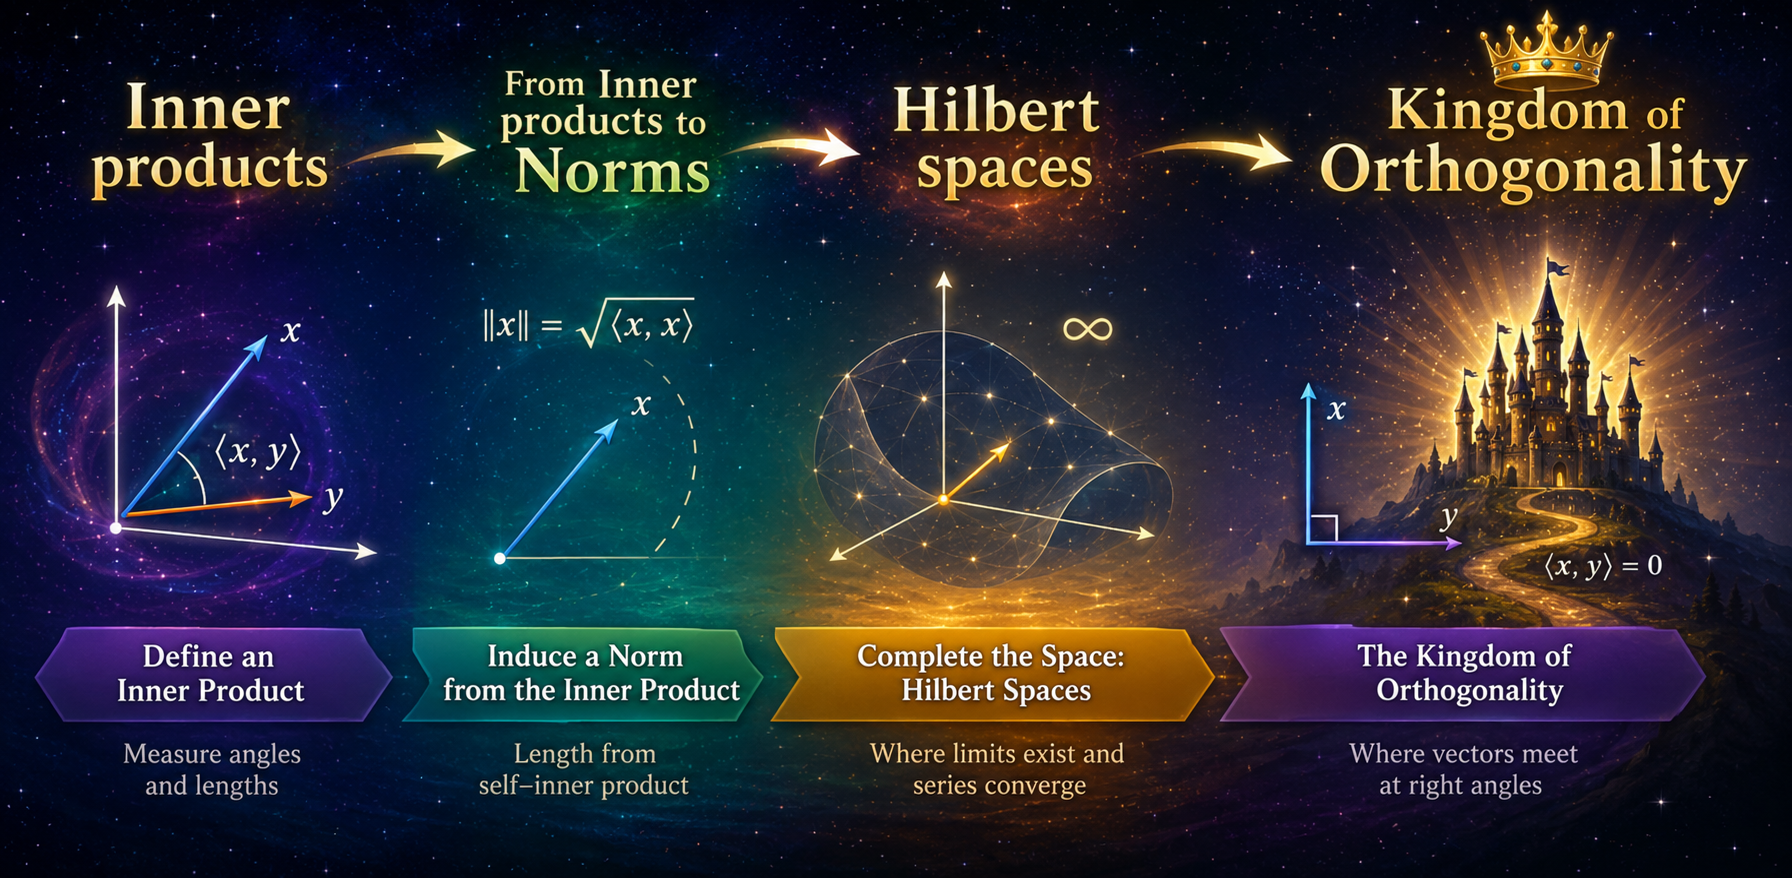
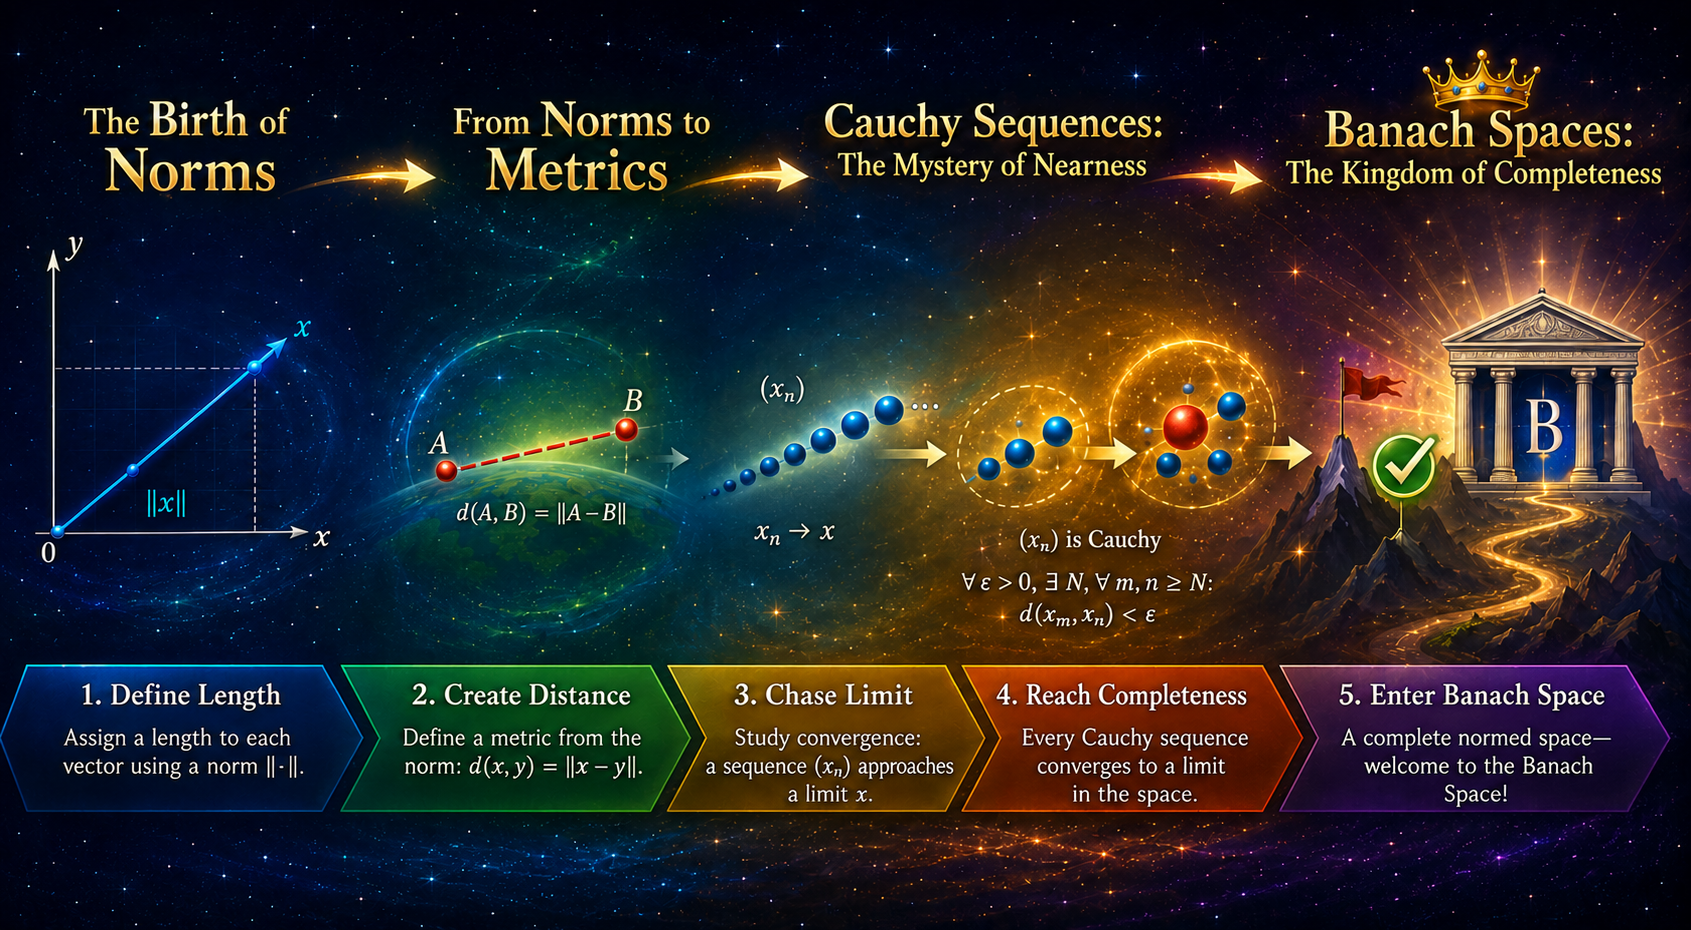
step 85 : finish part0 start part1

diff --git a/codes/main_bottomUp.py b/codes/main_bottomUp.py
@@ -2,7 +2,7 @@ from manim import *
 import numpy as np
 from math import *
 
-config.background_color = "#020416" #WHITE
+config.background_color =  "#020416" #WHITE  
 dark_red = "#9A0000"
 light_red = "#9A000045"
 dark_pink = "#9C1568"
@@ -2535,7 +2535,7 @@ class Part1_Scene(MovingCameraScene):
         self.wait(1)
 
         norm2_2d = MathTex(
-            r"\text{length }",r"= ",r"\sqrt{x^2 + y^2}",color=BLACK
+            r"\text{Vector length }",r" \text{is } ",r"\sqrt{x^2 + y^2}",color=BLACK
         ).move_to(axes.get_center()+1*DOWN)
         # draw vector in (0,0)
         vector = Arrow(
@@ -2707,9 +2707,12 @@ class Part1_Scene(MovingCameraScene):
         )
 
         # 2
-        text_2 = MathTex(r"\text{vector = }",r"\vec{0}=(0,0)\\",r"\text{length = }",r"0",color=dark_pink
-        ).scale(1.3).to_edge(LEFT).shift(RIGHT+UP)
-        text_2[2:].shift(1*LEFT)
+        text_2_part1 = MathTex(r"\text{Vector is }",r"\vec{0}",color=dark_pink
+        ).scale(1.3)
+        text_2_part2 = MathTex(r"\text{Vector length is }",r"0",color=dark_pink
+        ).scale(1.3)
+        text_2 = VGroup(text_2_part1, text_2_part2).arrange(DOWN,buff=0.5).to_edge(LEFT).shift(RIGHT+UP)
+        # text_2[2:].shift(1*LEFT)
         arrow_0_0_down = CurvedArrow(
             start_point=text_2.get_corner(UR)+0.2*DOWN+0.3*RIGHT,
             end_point=text_2.get_corner(DR)+0.2*UP+0.3*RIGHT,
@@ -2763,9 +2766,9 @@ class Part1_Scene(MovingCameraScene):
 
         # 3
 
-        text_3_part1 = MathTex(r"t \cdot ",r"\text{vector}\\",color=dark_pink
-        ).scale(1.3).to_edge(LEFT).shift(RIGHT+UP)
-        text_3_part2 = MathTex(r"t \cdot ",r"\text{length}",color=dark_pink
+        text_3_part1 = MathTex(r"t \cdot ",r"\text{Vector}",color=dark_pink
+        ).scale(1.3).to_edge(LEFT).shift(2*RIGHT+UP)
+        text_3_part2 = MathTex(r"t \cdot ",r"\text{Vector length}",color=dark_pink
         ).scale(1.3).to_edge(LEFT).shift(RIGHT+0.9*DOWN)
         self.play(
             Write(text_3_part1),
@@ -2876,7 +2879,7 @@ class Part1_Scene(MovingCameraScene):
             TransformMatchingTex(reordered, final)
         )
         final[1].set_color(light_orange)
-        length_text = MathTex(r"\text{length}",color=light_orange
+        length_text = MathTex(r"\text{Vector length}",color=light_orange
         ).next_to(final[0],RIGHT)
         self.play(
             ReplacementTransform(final[1],length_text)
@@ -2888,7 +2891,7 @@ class Part1_Scene(MovingCameraScene):
             angle=-PI/2,
             color=light_pink,
         )
-        text_3_part2_2 = MathTex(r"|t| \cdot ",r"\text{length}",color=dark_pink
+        text_3_part2_2 = MathTex(r"|t| \cdot ",r"\text{Vector length}",color=dark_pink
         ).scale(1.3).to_edge(LEFT).shift(RIGHT+0.6*DOWN)
         self.play(
             Create(arrow_0_0_up),
@@ -2899,6 +2902,7 @@ class Part1_Scene(MovingCameraScene):
         self.play(
             FadeOut(final[:2]),
             FadeOut(length_text),
+            FadeOut(norm2_2d),
             # FadeOut(note_text),
         )
 
@@ -2990,6 +2994,7 @@ class Part1_Scene(MovingCameraScene):
 
         self.play(
             Write(text_4),
+            # FadeOut(norm2_2d),
         )
         self.wait(1)
 
@@ -3121,7 +3126,7 @@ class Part1_Scene(MovingCameraScene):
         vector.set_color(BLACK)
         self.play(
             FadeOut(plane),
-            FadeOut(norm2_2d),
+            # FadeOut(norm2_2d),
             FadeOut(text_2),
             FadeOut(text_1),
             FadeOut(vector_rule3_3),
@@ -4840,20 +4845,20 @@ class Part1_Scene(MovingCameraScene):
             self.camera.frame.save_state()
 
 
-            rect_1 = Rectangle(width=3.2, height=6.8).move_to(img.get_left() + RIGHT * 1.5 +0.2*UP).round_corners(radius=0.3)
-            rect_2 = Rectangle(width=3, height=6.8).move_to(img.get_left() + RIGHT * 4.7 +0.2*UP).round_corners(radius=0.3)
-            rect_3 = Rectangle(width=3, height=6.8).move_to(img.get_left() + RIGHT * 8.1 +0.2*UP).round_corners(radius=0.3)
-            rect_4 = Rectangle(width=4.5, height=6.8).move_to(img.get_left() + RIGHT * 12.2 +0.2*UP).round_corners(radius=0.3)
-
             # rect_1 = Rectangle(width=3.2, height=6.8).move_to(img.get_left() + RIGHT * 1.5 +0.2*UP).round_corners(radius=0.3)
-            # rect_2 = Rectangle(width=3, height=6.8).move_to(img.get_left() + RIGHT * 4.55 +0.2*UP).round_corners(radius=0.3)
-            # rect_3 = Rectangle(width=5, height=6.8).move_to(img.get_left() + RIGHT * 8.1 +0.2*UP).round_corners(radius=0.3)
-            # rect_4 = Rectangle(width=3.5, height=6.8).move_to(img.get_left() + RIGHT * 12.1 +0.2*UP).round_corners(radius=0.3)
+            # rect_2 = Rectangle(width=3, height=6.8).move_to(img.get_left() + RIGHT * 4.7 +0.2*UP).round_corners(radius=0.3)
+            # rect_3 = Rectangle(width=3, height=6.8).move_to(img.get_left() + RIGHT * 8.1 +0.2*UP).round_corners(radius=0.3)
+            # rect_4 = Rectangle(width=4.5, height=6.8).move_to(img.get_left() + RIGHT * 12.2 +0.2*UP).round_corners(radius=0.3)
+
+            rect_1 = Rectangle(width=3.2, height=6.8).move_to(img.get_left() + RIGHT * 1.5 +0.2*UP).round_corners(radius=0.3)
+            rect_2 = Rectangle(width=3, height=6.8).move_to(img.get_left() + RIGHT * 4.55 +0.2*UP).round_corners(radius=0.3)
+            rect_3 = Rectangle(width=5, height=6.8).move_to(img.get_left() + RIGHT * 8.1 +0.2*UP).round_corners(radius=0.3)
+            rect_4 = Rectangle(width=3.5, height=6.8).move_to(img.get_left() + RIGHT * 12.1 +0.2*UP).round_corners(radius=0.3)
 
 
             zoom_rects = [rect_1, rect_2, rect_3, rect_4]
-            # wait_list = [ 7.7 , 6.1 , 6.7 , 8.1 ]
-            wait_list = [ 3.7 , 3.3 , 5.3 , 15.7 ]
+            wait_list = [ 7.7 , 6.1 , 6.7 , 8.1 ]
+            # wait_list = [ 3.7 , 3.3 , 5.3 , 15.7 ]
             index_time = 0
 
             for rect in zoom_rects: